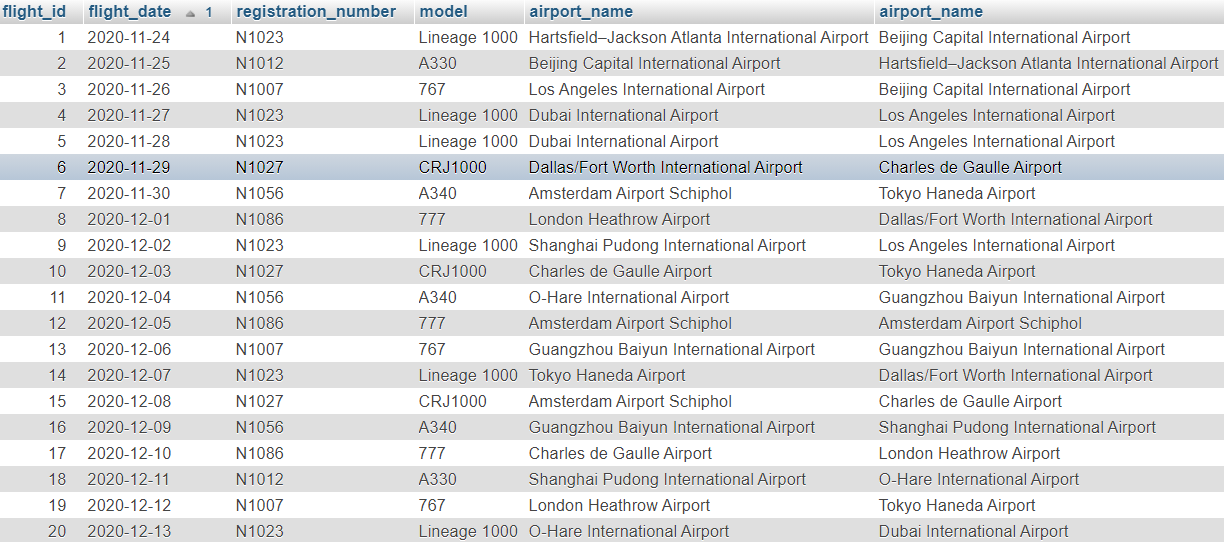
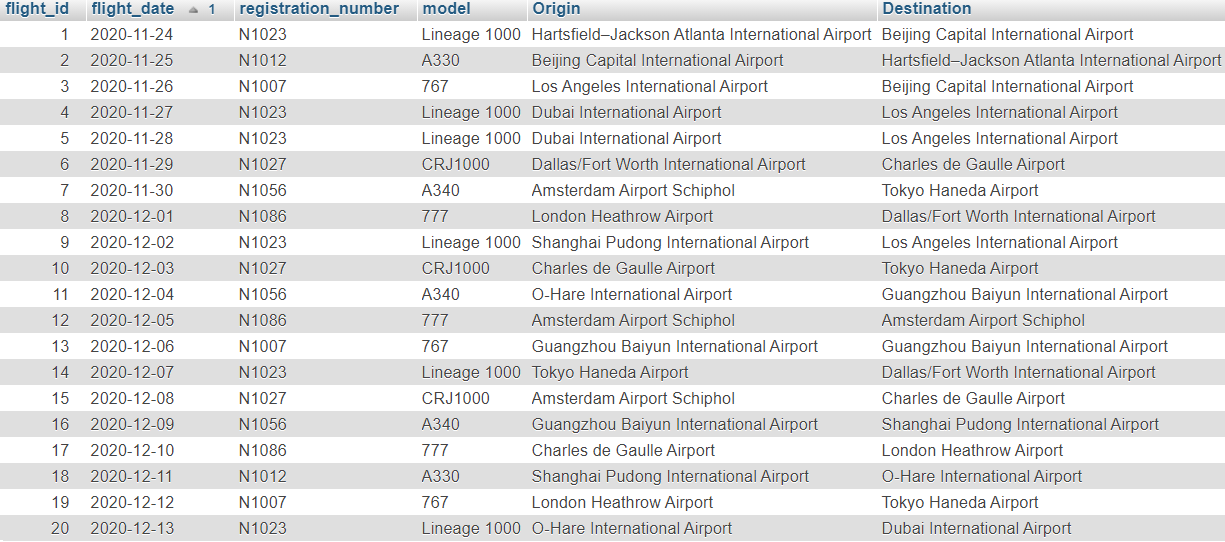
Changed join query for origins-derpartures

diff --git a/README.md b/README.md
@@ -200,8 +200,8 @@ ORDER BY flight_date
 
 ### 3.6 Departures and their Destinations
 ```
-SELECT flight_id, flight_date, registration_number, model, o.airport_name, d.airport_name
-FROM plane as p
+SELECT flight_id, flight_date, registration_number, model, o.airport_name AS 'Origin', d.airport_name AS 'Destination'
+FROM plane AS p
 INNER JOIN flight AS f
 ON f.fk_plane_id = p.plane_id
 INNER JOIN airport as o
